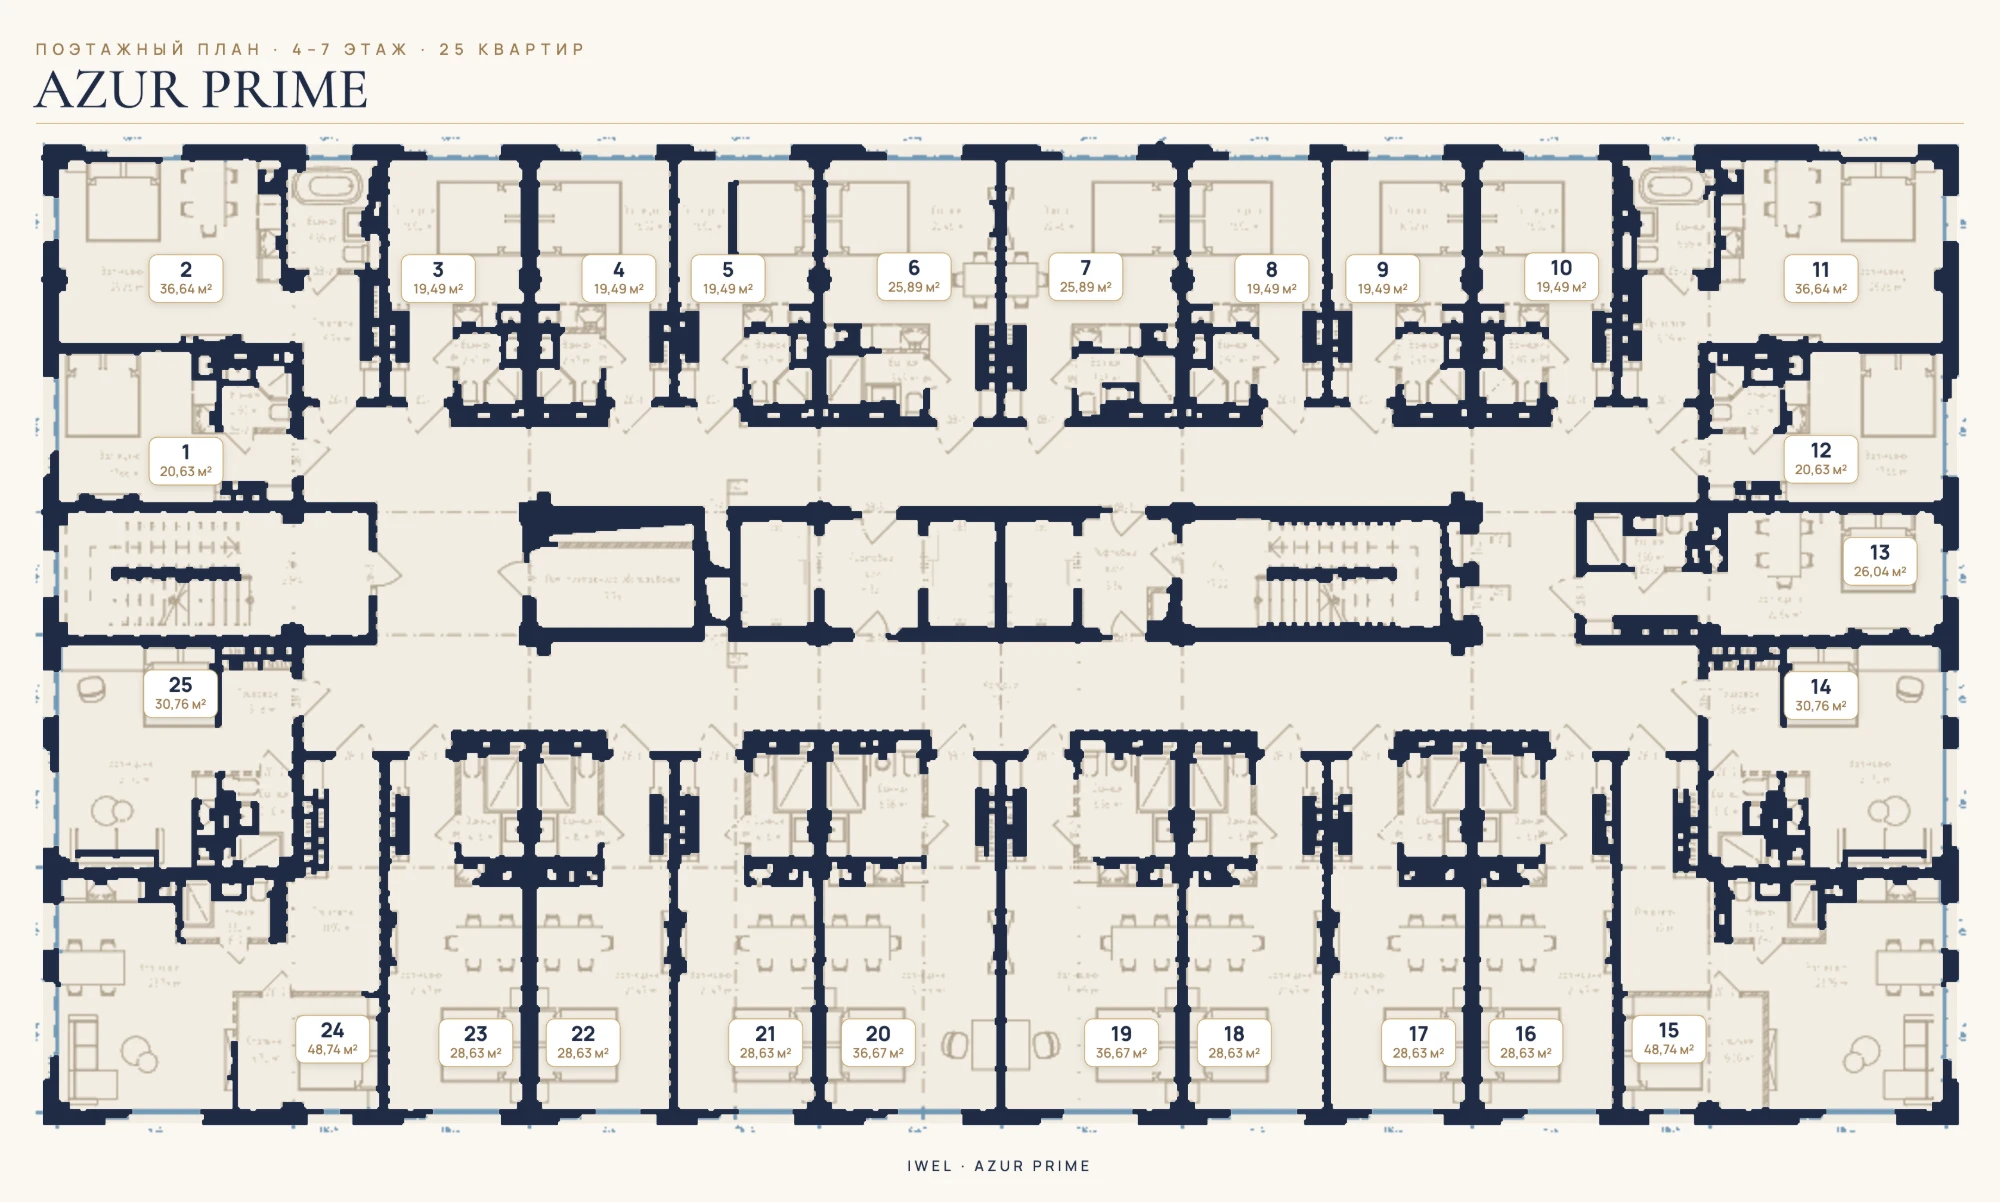
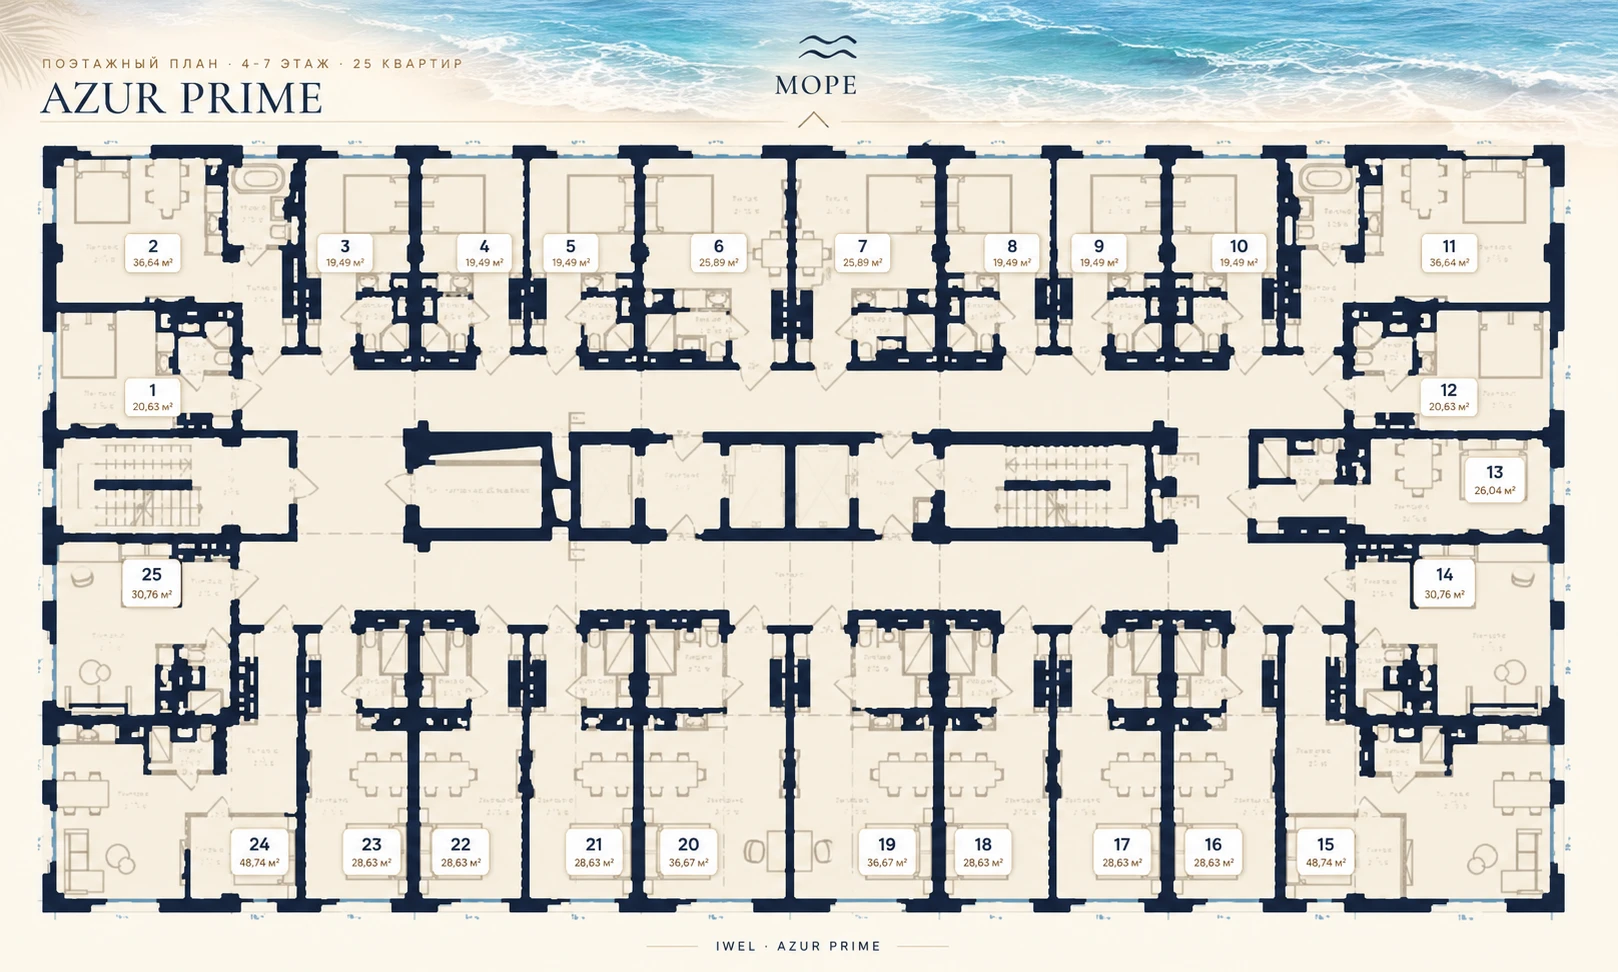
Наличие: AZUR Prime — новый план 4–7 этажей, компактные значки на плотных планах

diff --git a/src/config/floorPlans.ts b/src/config/floorPlans.ts
@@ -90,17 +90,17 @@ const AZUR_PRIME_F3: FloorPlan = {
   image: `${BASE}/templates/floorplans-floor/azur-prime-f3.webp`,
   aspect: 1536 / 1024,
   perFloor: 25,
-  badge: { w: 5.2, h: 6.4 },
+  badge: { w: 4.9, h: 5.9 },
   positions: [
     { pos: 1, x: 9.1, y: 43.5, sides: ['left'] },
     { pos: 2, x: 9.6, y: 30.2, sides: ['top'] },
     { pos: 3, x: 21.7, y: 30.2, sides: ['top'] },
     { pos: 4, x: 30.9, y: 30.2, sides: ['top'] },
-    { pos: 5, x: 38.3, y: 30.2, sides: ['top'] },
+    { pos: 5, x: 37.5, y: 30.2, sides: ['top'] },
     { pos: 6, x: 45.6, y: 30.2, sides: ['top'] },
     { pos: 7, x: 54.6, y: 30.2, sides: ['top'] },
     { pos: 8, x: 63.7, y: 30.2, sides: ['top'] },
-    { pos: 9, x: 71.0, y: 30.2, sides: ['top'] },
+    { pos: 9, x: 70.3, y: 30.2, sides: ['top'] },
     { pos: 10, x: 77.5, y: 30.2, sides: ['top'] },
     { pos: 11, x: 90.2, y: 30.2, sides: ['top'] },
     { pos: 12, x: 90.8, y: 43.5, sides: ['right'] },
@@ -124,35 +124,35 @@ const AZUR_PRIME_F4_7: FloorPlan = {
   floors: [4, 7],
   floorLabel: '4–7 этажи',
   image: `${BASE}/templates/floorplans-floor/azur-prime-f4-7.webp`,
-  aspect: 2000 / 1202,
+  aspect: 1618 / 972,
   perFloor: 25,
-  badge: { w: 4.4, h: 5.8 },
+  badge: { w: 4.6, h: 5.6 },
   positions: [
-    { pos: 1, x: 9.2, y: 38.3, sides: ['left'] },
-    { pos: 2, x: 9.2, y: 23.1, sides: ['top'] },
-    { pos: 3, x: 21.9, y: 23.1, sides: ['top'] },
-    { pos: 4, x: 30.9, y: 23.1, sides: ['top'] },
-    { pos: 5, x: 36.4, y: 23.1, sides: ['top'] },
-    { pos: 6, x: 45.6, y: 23.0, sides: ['top'] },
-    { pos: 7, x: 54.2, y: 23.0, sides: ['top'] },
-    { pos: 8, x: 63.5, y: 23.1, sides: ['top'] },
-    { pos: 9, x: 69.1, y: 23.1, sides: ['top'] },
-    { pos: 10, x: 78.0, y: 23.0, sides: ['top'] },
-    { pos: 11, x: 91.0, y: 23.1, sides: ['top'] },
-    { pos: 12, x: 91.0, y: 38.3, sides: ['right'] },
-    { pos: 13, x: 94.0, y: 46.7, sides: ['right'] },
-    { pos: 14, x: 91.0, y: 57.8, sides: ['right'] },
-    { pos: 15, x: 83.4, y: 86.4, sides: ['bottom'] },
-    { pos: 16, x: 76.2, y: 86.7, sides: ['bottom'] },
-    { pos: 17, x: 70.9, y: 86.7, sides: ['bottom'] },
-    { pos: 18, x: 61.7, y: 86.7, sides: ['bottom'] },
-    { pos: 19, x: 56.0, y: 86.7, sides: ['bottom'] },
-    { pos: 20, x: 43.9, y: 86.7, sides: ['bottom'] },
-    { pos: 21, x: 38.2, y: 86.7, sides: ['bottom'] },
-    { pos: 22, x: 29.1, y: 86.7, sides: ['bottom'] },
-    { pos: 23, x: 23.8, y: 86.7, sides: ['bottom'] },
-    { pos: 24, x: 16.6, y: 86.4, sides: ['bottom'] },
-    { pos: 25, x: 9.0, y: 57.7, sides: ['left'] },
+    { pos: 1, x: 9.4, y: 40.6, sides: ['left'] },
+    { pos: 2, x: 9.4, y: 26.0, sides: ['top'] },
+    { pos: 3, x: 21.3, y: 26.0, sides: ['top'] },
+    { pos: 4, x: 29.9, y: 26.0, sides: ['top'] },
+    { pos: 5, x: 35.2, y: 26.0, sides: ['top'] },
+    { pos: 6, x: 44.4, y: 26.0, sides: ['top'] },
+    { pos: 7, x: 53.3, y: 26.0, sides: ['top'] },
+    { pos: 8, x: 62.5, y: 26.0, sides: ['top'] },
+    { pos: 9, x: 67.9, y: 26.0, sides: ['top'] },
+    { pos: 10, x: 76.5, y: 26.0, sides: ['top'] },
+    { pos: 11, x: 89.5, y: 26.0, sides: ['top'] },
+    { pos: 12, x: 89.4, y: 40.8, sides: ['right'] },
+    { pos: 13, x: 92.3, y: 49.3, sides: ['right'] },
+    { pos: 14, x: 89.2, y: 59.9, sides: ['right'] },
+    { pos: 15, x: 81.9, y: 87.6, sides: ['bottom'] },
+    { pos: 16, x: 75.0, y: 87.6, sides: ['bottom'] },
+    { pos: 17, x: 69.3, y: 87.6, sides: ['bottom'] },
+    { pos: 18, x: 60.8, y: 87.6, sides: ['bottom'] },
+    { pos: 19, x: 54.8, y: 87.6, sides: ['bottom'] },
+    { pos: 20, x: 42.5, y: 87.6, sides: ['bottom'] },
+    { pos: 21, x: 36.7, y: 87.6, sides: ['bottom'] },
+    { pos: 22, x: 28.4, y: 87.6, sides: ['bottom'] },
+    { pos: 23, x: 22.9, y: 87.6, sides: ['bottom'] },
+    { pos: 24, x: 16.0, y: 87.6, sides: ['bottom'] },
+    { pos: 25, x: 9.3, y: 59.9, sides: ['left'] },
   ],
   sides: AZUR_PRIME_SIDES,
 }

diff --git a/src/components/AvailabilityView.tsx b/src/components/AvailabilityView.tsx
@@ -253,6 +253,8 @@ export default function AvailabilityView({ onPick }: {
               const sides = plan.sides[activeBlock!]
               const sideCls = (s: { sea?: boolean }) => `text-[10px] sm:text-xs font-semibold tracking-wide ${s.sea ? 'text-sky-700' : 'text-gray-500'}`
               const onFloor = inBlock.filter(a => a.floor === shownFloor)
+              // Dense plans (25 apartments a floor) get smaller badges so the drawing stays readable
+              const compact = plan.perFloor > 10
               return (
                 <div className={`grid grid-cols-[18px_1fr_18px] sm:grid-cols-[22px_1fr_22px] grid-rows-[auto_1fr_auto] gap-1 items-center w-full mx-auto ${plan.perFloor > 10 ? 'sm:max-w-[960px]' : 'sm:max-w-[640px]'}`}>
                   <div />
@@ -274,13 +276,14 @@ export default function AvailabilityView({ onPick }: {
                           {...aptHandlers(a)}
                           title={touch || findAptPlan(project, a) ? undefined : `Кв. ${a.apt} · ${fmtArea(a.area)} м² · окна: ${viewText(a)}`}
                           style={{ left: `${p.x}%`, top: `${p.y}%`, width: `${p.w ?? plan.badge.w}%`, height: `${plan.badge.h}%` }}
-                          className={`absolute -translate-x-1/2 -translate-y-1/2 flex flex-col items-center justify-center rounded sm:rounded-md border sm:border-2 leading-tight text-center shadow-md min-w-[29px] min-h-[23px] sm:min-w-[44px] sm:min-h-[30px] px-0.5
+                          className={`absolute -translate-x-1/2 -translate-y-1/2 flex flex-col items-center justify-center rounded sm:rounded-md border sm:border-2 leading-tight text-center shadow-md px-0.5
+                            ${compact ? 'min-w-[22px] min-h-[18px] sm:min-w-[36px] sm:min-h-[24px]' : 'min-w-[29px] min-h-[23px] sm:min-w-[44px] sm:min-h-[30px]'}
                             ${PLAN_STATUS_STYLE[a.status]} ${dim ? 'opacity-40' : ''}`}
                         >
-                          <div className="text-[9px] sm:text-[10px] font-bold whitespace-nowrap leading-none sm:leading-tight">
+                          <div className={`${compact ? 'text-[7px] sm:text-[9px]' : 'text-[9px] sm:text-[10px]'} font-bold whitespace-nowrap leading-none sm:leading-tight`}>
                             <span className="hidden sm:inline">{showSea(a) ? '🌊' : ''}№</span>{a.apt}
                           </div>
-                          <div className="text-[7.5px] sm:text-[9px] leading-none sm:leading-tight whitespace-nowrap mt-px">
+                          <div className={`${compact ? 'text-[6px] sm:text-[7.5px]' : 'text-[7.5px] sm:text-[9px]'} leading-none sm:leading-tight whitespace-nowrap mt-px`}>
                             {fmtArea(a.area)}<span className="hidden sm:inline"> м²</span>
                           </div>
                         </button>
